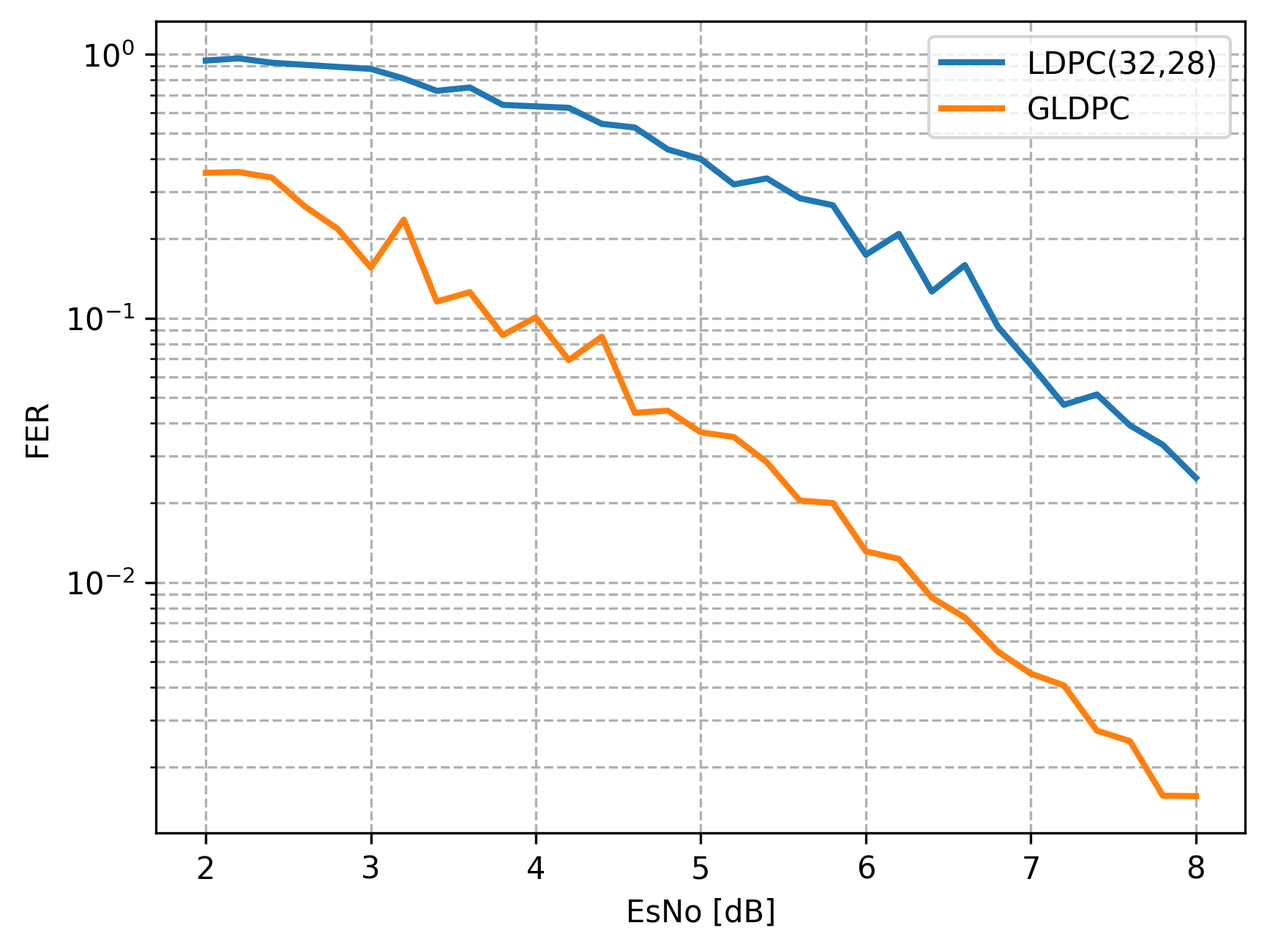
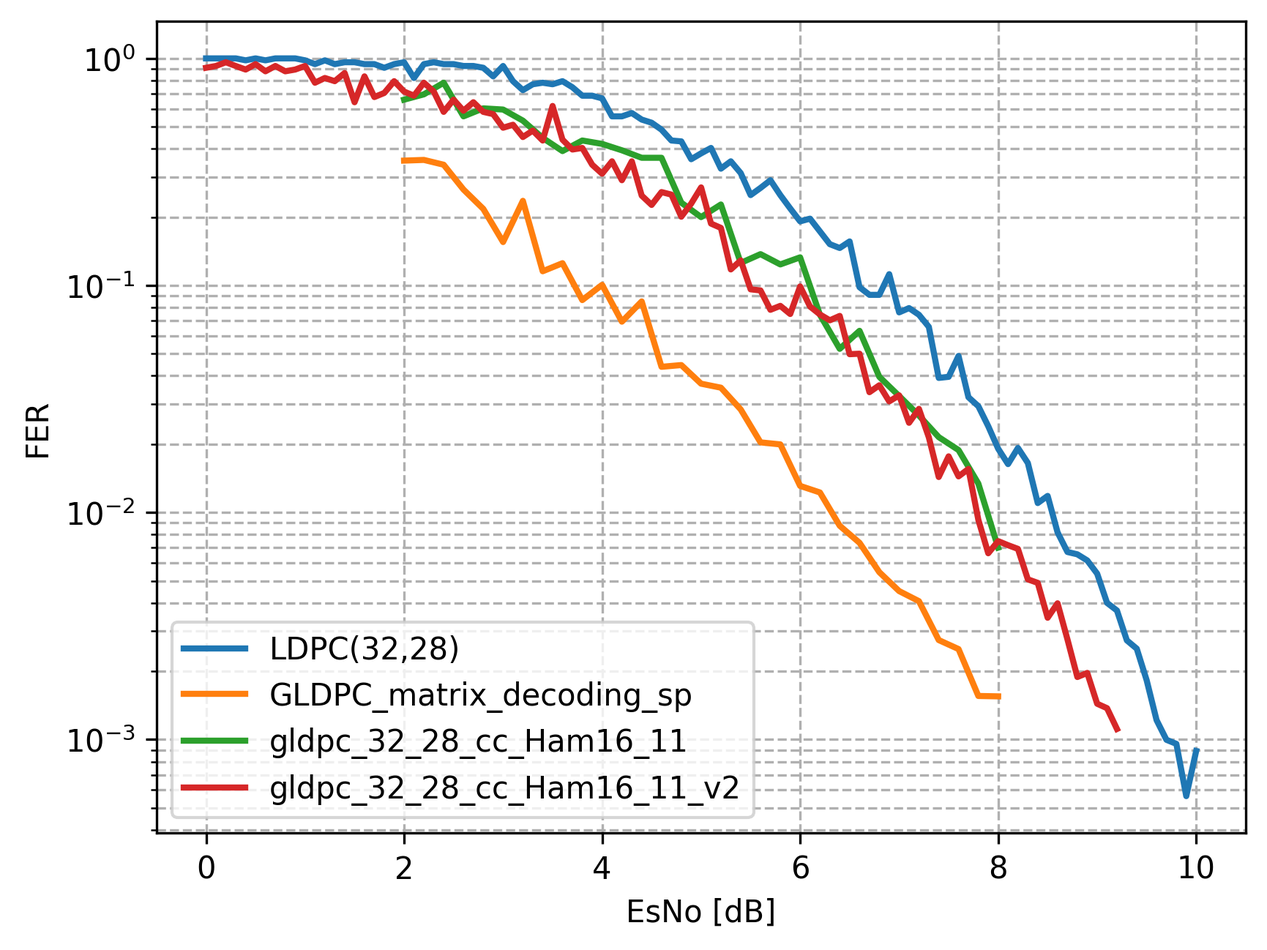
промоделирован пример из статьи

diff --git a/plot_hardcode.py b/plot_hardcode.py
@@ -2,17 +2,29 @@ from scipy.ndimage import gaussian_filter1d
 from matplotlib import pyplot as plt
 
 
-esno_ldpc_32_28 = [2, 2.2, 2.4, 2.6, 2.8, 3.0, 3.2, 3.4, 3.6, 3.8, 4.0, 4.2, 4.4, 4.6, 4.8, 5.0, 5.2, 5.4, 5.6, 5.8, 6.0, 6.2, 6.4, 6.6, 6.8, 7.0, 7.2, 7.4, 7.6, 7.8, 8.0]
-fer_ldpc_32_28 = [0.9433962264150944, 0.9615384615384616, 0.9259259259259259, 0.9090909090909091, 0.8928571428571429, 0.8771929824561403, 0.8064516129032258, 0.7246376811594203, 0.746268656716418, 0.6410256410256411, 0.6329113924050633, 0.625, 0.5434782608695652, 0.5263157894736842, 0.43478260869565216, 0.4, 0.32051282051282054, 0.33783783783783783, 0.2840909090909091, 0.26737967914438504, 0.1736111111111111, 0.20833333333333334, 0.12594458438287154, 0.15873015873015872, 0.09276437847866419, 0.06657789613848203, 0.046948356807511735, 0.051387461459403906, 0.03924646781789639, 0.033112582781456956, 0.02485089463220676]
-ber_ldpc_32_28 = [0.044221698113207544, 0.046875, 0.05497685185185185, 0.04772727272727273, 0.04743303571428571, 0.047149122807017545, 0.038306451612903226, 0.036684782608695655, 0.04757462686567164, 0.038461538461538464, 0.03560126582278481, 0.037109375, 0.030570652173913044, 0.03125, 0.028532608695652172, 0.0235, 0.021033653846153848, 0.02153716216216216, 0.018465909090909092, 0.01771390374331551, 0.010091145833333334, 0.013411458333333333, 0.007399244332493703, 0.010218253968253968, 0.006319573283858998, 0.004327563249001331, 0.003051643192488263, 0.0031153648509763617, 0.0024529042386185244, 0.0020281456953642383, 0.0015531809145129226]
-plt.plot(esno_ldpc_32_28, fer_ldpc_32_28, label="LDPC(32,28)", alpha=1, linewidth=2)
+esno_ldpc_32_28 = [0, 0.1, 0.2, 0.3, 0.4, 0.5, 0.6, 0.7, 0.8, 0.9, 1.0, 1.1, 1.2, 1.3, 1.4, 1.5, 1.6, 1.7, 1.8, 1.9, 2.0, 2.1, 2.2, 2.3, 2.4, 2.5, 2.6, 2.7, 2.8, 2.9, 3.0, 3.1, 3.2, 3.3, 3.4, 3.5, 3.6, 3.7, 3.8, 3.9, 4.0, 4.1, 4.2, 4.3, 4.4, 4.5, 4.6, 4.7, 4.8, 4.9, 5.0, 5.1, 5.2, 5.3, 5.4, 5.5, 5.6, 5.7, 5.8, 5.9, 6.0, 6.1, 6.2, 6.3, 6.4, 6.5, 6.6, 6.7, 6.8, 6.9, 7.0, 7.1, 7.2, 7.3, 7.4, 7.5, 7.6, 7.7, 7.8, 7.9, 8.0, 8.1, 8.2, 8.3, 8.4, 8.5, 8.6, 8.7, 8.8, 8.9, 9.0, 9.1, 9.2, 9.3, 9.4, 9.5, 9.6, 9.7, 9.8, 9.9, ] # 10.0
+fer_ldpc_32_28 = [1.0, 1.0, 1.0, 1.0, 0.9803921568627451, 1.0, 0.9803921568627451, 1.0, 1.0, 1.0, 0.9803921568627451, 0.9433962264150944, 0.9803921568627451, 0.9433962264150944, 0.9615384615384616, 0.9615384615384616, 0.9433962264150944, 0.9433962264150944, 0.9090909090909091, 0.9433962264150944, 0.9615384615384616, 0.819672131147541, 0.9433962264150944, 0.9615384615384616, 0.9433962264150944, 0.9433962264150944, 0.9259259259259259, 0.9259259259259259, 0.9090909090909091, 0.8333333333333334, 0.9259259259259259, 0.7936507936507936, 0.7246376811594203, 0.7692307692307693, 0.78125, 0.7692307692307693, 0.7936507936507936, 0.746268656716418, 0.684931506849315, 0.684931506849315, 0.6666666666666666, 0.5555555555555556, 0.5555555555555556, 0.5747126436781609, 0.5376344086021505, 0.5208333333333334, 0.4854368932038835, 0.43478260869565216, 0.43103448275862066, 0.3597122302158273, 0.3816793893129771, 0.4032258064516129, 0.32679738562091504, 0.352112676056338, 0.3125, 0.25, 0.26881720430107525, 0.29069767441860467, 0.25, 0.2183406113537118, 0.19157088122605365, 0.1968503937007874, 0.17301038062283736, 0.1519756838905775, 0.14619883040935672, 0.15625, 0.09823182711198428, 0.09090909090909091, 0.09090909090909091, 0.11210762331838565, 0.076103500761035, 0.0794912559618442, 0.07429420505200594, 0.0657030223390276, 0.03915426781519186, 0.0395882818685669, 0.04892367906066536, 0.03219575016097875, 0.029394473838918283, 0.02399232245681382, 0.019105846388995033, 0.016339869281045753, 0.01924557351809084, 0.016523463317911435, 0.01100594320933304, 0.011834319526627219, 0.008180628272251309, 0.006700616456714018, 0.006544502617801047, 0.006150818058801821, 0.0053803938448294415, 0.004, 0.0037017842600133265, 0.002734631371691096, 0.0025135732957973053, 0.0018253504672897196, 0.0012185908215739318, 0.0009976057462090981, 0.0009575242253629017, 0.000563551728413151, ] # 0.0008907575001781516
+ber_ldpc_32_28 = [0.054375, 0.044375, 0.04875, 0.05375, 0.04718137254901961, 0.043125, 0.05024509803921569, 0.0425, 0.04, 0.05875, 0.04779411764705882, 0.04716981132075472, 0.034926470588235295, 0.03773584905660377, 0.046274038461538464, 0.045072115384615384, 0.039504716981132074, 0.04540094339622641, 0.042045454545454546, 0.041273584905660375, 0.05228365384615385, 0.04456967213114754, 0.03714622641509434, 0.043870192307692304, 0.04540094339622641, 0.03891509433962264, 0.059027777777777776, 0.045717592592592594, 0.05568181818181818, 0.04739583333333333, 0.04224537037037037, 0.047619047619047616, 0.04483695652173913, 0.03365384615384615, 0.04931640625, 0.0375, 0.04662698412698413, 0.037779850746268655, 0.04280821917808219, 0.03595890410958904, 0.03916666666666667, 0.03229166666666667, 0.03125, 0.031609195402298854, 0.03528225806451613, 0.02734375, 0.02821601941747573, 0.028532608695652172, 0.02478448275862069, 0.022482014388489208, 0.024093511450381678, 0.028981854838709676, 0.018995098039215685, 0.02222711267605634, 0.019921875, 0.01625, 0.021001344086021504, 0.018168604651162792, 0.0175, 0.012827510917030568, 0.011015325670498084, 0.012549212598425197, 0.01189446366782007, 0.008548632218844984, 0.00941154970760234, 0.011328125, 0.006507858546168959, 0.005965909090909091, 0.0057954545454545455, 0.0075672645739910315, 0.004613774733637747, 0.005216613672496025, 0.004457652303120356, 0.004311760840998686, 0.0023981989036805013, 0.0025237529691211403, 0.0029048434442270057, 0.0019518673535093367, 0.0018738977072310405, 0.0015894913627639156, 0.001253821169277799, 0.0010518790849673202, 0.0011306774441878368, 0.0010017349636483807, 0.0006741140215716487, 0.0007544378698224853, 0.0004908376963350785, 0.00042297641383007235, 0.0003967604712041885, 0.00038058186738836264, 0.0003329118691488217, 0.0002325, 0.0002244206707633079, 0.00016407788230146577, 0.00016024029760707822, 0.00011636609228971963, 7.387706855791962e-05, 6.172685554668795e-05, 5.9845264085181356e-05, 3.416532353504728e-05, ] # 5.177527969785506e-05
+# plt.plot(esno_ldpc_32_28, fer_ldpc_32_28, label="LDPC(32,28)", alpha=1, linewidth=2)
+plt.plot(esno_ldpc_32_28, gaussian_filter1d(fer_ldpc_32_28, sigma=1).tolist(), label="LDPC(32,28)", alpha=1, linewidth=2)
+
+esno_gldpc_matrix_by_sp = [2, 2.2, 2.4, 2.6, 2.8, 3.0, 3.2, 3.4, 3.6, 3.8, 4.0, 4.2, 4.4, 4.6, 4.8, 5.0, 5.2, 5.4, 5.6, 5.8, 6.0, 6.2, 6.4, 6.6, 6.8, 7.0, 7.2, 7.4, 7.6, 7.8, 8.0]
+fer_gldpc_matrix_by_sp = [0.3546099290780142, 0.35714285714285715, 0.3401360544217687, 0.26455026455026454, 0.21739130434782608, 0.15527950310559005, 0.2358490566037736, 0.11547344110854503, 0.12531328320802004, 0.08620689655172414, 0.1006036217303823, 0.06925207756232687, 0.08503401360544217, 0.04382120946538125, 0.04460303300624442, 0.03692762186115214, 0.03546099290780142, 0.02844141069397042, 0.020366598778004074, 0.019952114924181964, 0.013099292638197537, 0.012254901960784314, 0.008742787200559538, 0.0073551044424830835, 0.005460303592879764, 0.00450815976918222, 0.00406934158053227, 0.002743183189773413, 0.0025040064102564105, 0.0015561295944726277, 0.0015502433882119493]
+ber_gldpc_matrix_by_sp = [0.011081560283687944, 0.013169642857142857, 0.012542517006802721, 0.008763227513227513, 0.007201086956521739, 0.005725931677018634, 0.008254716981132075, 0.0040415704387990765, 0.004151002506265664, 0.003556034482758621, 0.003709758551307847, 0.0024238227146814403, 0.002816751700680272, 0.0015337423312883436, 0.0018119982158786797, 0.0016386632200886262, 0.0017065602836879433, 0.0011554323094425483, 0.0008655804480651731, 0.0008853750997605746, 0.0004584752423369138, 0.0004978553921568627, 0.0003059975520195838, 0.00027121947631656367, 0.00021158676422409085, 0.00019159679019024433, 0.00016531700170912346, 0.00011658528556537005, 0.00012050530849358975, 6.613550776508668e-05, 6.007193129321303e-05]
+# plt.plot(esno_gldpc_matrix_by_sp, fer_gldpc_matrix_by_sp, label="GLDPC_matrix_decoding_sp", alpha=1, linewidth=2)
 # plt.plot(esno_ldpc_32_28, gaussian_filter1d(fer_ldpc_32_28, sigma=1).tolist(), label="LDPC(32,28)", alpha=1, linewidth=2)
 
-esno_gldpc = [2, 2.2, 2.4, 2.6, 2.8, 3.0, 3.2, 3.4, 3.6, 3.8, 4.0, 4.2, 4.4, 4.6, 4.8, 5.0, 5.2, 5.4, 5.6, 5.8, 6.0, 6.2, 6.4, 6.6, 6.8, 7.0, 7.2, 7.4, 7.6, 7.8, 8.0]
-fer_gldpc = [0.3546099290780142, 0.35714285714285715, 0.3401360544217687, 0.26455026455026454, 0.21739130434782608, 0.15527950310559005, 0.2358490566037736, 0.11547344110854503, 0.12531328320802004, 0.08620689655172414, 0.1006036217303823, 0.06925207756232687, 0.08503401360544217, 0.04382120946538125, 0.04460303300624442, 0.03692762186115214, 0.03546099290780142, 0.02844141069397042, 0.020366598778004074, 0.019952114924181964, 0.013099292638197537, 0.012254901960784314, 0.008742787200559538, 0.0073551044424830835, 0.005460303592879764, 0.00450815976918222, 0.00406934158053227, 0.002743183189773413, 0.0025040064102564105, 0.0015561295944726277, 0.0015502433882119493]
-ber_gldpc = [0.011081560283687944, 0.013169642857142857, 0.012542517006802721, 0.008763227513227513, 0.007201086956521739, 0.005725931677018634, 0.008254716981132075, 0.0040415704387990765, 0.004151002506265664, 0.003556034482758621, 0.003709758551307847, 0.0024238227146814403, 0.002816751700680272, 0.0015337423312883436, 0.0018119982158786797, 0.0016386632200886262, 0.0017065602836879433, 0.0011554323094425483, 0.0008655804480651731, 0.0008853750997605746, 0.0004584752423369138, 0.0004978553921568627, 0.0003059975520195838, 0.00027121947631656367, 0.00021158676422409085, 0.00019159679019024433, 0.00016531700170912346, 0.00011658528556537005, 0.00012050530849358975, 6.613550776508668e-05, 6.007193129321303e-05]
-plt.plot(esno_gldpc, fer_gldpc, label="GLDPC", alpha=1, linewidth=2)
-# plt.plot(esno_ldpc_32_28, gaussian_filter1d(fer_ldpc_32_28, sigma=1).tolist(), label="LDPC(32,28)", alpha=1, linewidth=2)
+esno_gldpc_32_28_cc_Ham16_11 = [2, 2.2, 2.4, 2.6, 2.8, 3.0, 3.2, 3.4, 3.6, 3.8, 4.0, 4.2, 4.4, 4.6, 4.8, 5.0, 5.2, 5.4, 5.6, 5.8, 6.0, 6.2, 6.4, 6.6, 6.8, 7.0, 7.2, 7.4, 7.6, 7.8, 8.0]
+fer_gldpc_32_28_cc_Ham16_11 = [0.6578947368421053, 0.6944444444444444, 0.78125, 0.5555555555555556, 0.6024096385542169, 0.5952380952380952, 0.5319148936170213, 0.44642857142857145, 0.390625, 0.43478260869565216, 0.42016806722689076, 0.3937007874015748, 0.36496350364963503, 0.36496350364963503, 0.23148148148148148, 0.2, 0.22727272727272727, 0.12562814070351758, 0.13736263736263737, 0.12376237623762376, 0.13297872340425532, 0.07429420505200594, 0.052576235541535225, 0.06313131313131314, 0.0395882818685669, 0.03259452411994785, 0.02675227394328518, 0.02147766323024055, 0.018839487565938208, 0.013412017167381975, 0.0070028011204481795]
+ber_gldpc_32_28_cc_Ham16_11 = [0.0884046052631579, 0.09505208333333333, 0.1171875, 0.07256944444444445, 0.0677710843373494, 0.07961309523809523, 0.07712765957446809, 0.05552455357142857, 0.049072265625, 0.05326086956521739, 0.048581932773109245, 0.05093503937007874, 0.04698905109489051, 0.045848540145985404, 0.028645833333333332, 0.022, 0.02784090909090909, 0.014761306532663316, 0.015625, 0.014619430693069308, 0.014876994680851064, 0.007661589895988113, 0.005224763406940063, 0.006352588383838384, 0.004280482977038797, 0.0031779661016949155, 0.002959470304975923, 0.0022014604810996563, 0.0021547663903541824, 0.0016597371244635192, 0.0007265406162464986]
+# plt.plot(esno_gldpc_32_28_cc_Ham16_11, fer_gldpc_32_28_cc_Ham16_11, label="gldpc_32_28_cc_Ham16_11", alpha=1, linewidth=2)
+# plt.plot(esno_gldpc_32_28_cc_Ham16_11, gaussian_filter1d(fer_gldpc_32_28_cc_Ham16_11, sigma=1).tolist(), label="LDPC(32,28)", alpha=1, linewidth=2)
+
+esno_gldpc_32_28_cc_Ham16_11_v2 = [0.0, 0.1, 0.2, 0.3, 0.4, 0.5, 0.6, 0.7, 0.8, 0.9, 1.0, 1.1, 1.2, 1.3, 1.4, 1.5, 1.6, 1.7, 1.8, 1.9, 2.0, 2.1, 2.2, 2.3, 2.4, 2.5, 2.6, 2.7, 2.8, 2.9, 3.0, 3.1, 3.2, 3.3, 3.4, 3.5, 3.6, 3.7, 3.8, 3.9, 4.0, 4.1, 4.2, 4.3, 4.4, 4.5, 4.6, 4.7, 4.8, 4.9, 5.0, 5.1, 5.2, 5.3, 5.4, 5.5, 5.6, 5.7, 5.8, 5.9, 6.0, 6.1, 6.2, 6.3, 6.4, 6.5, 6.6, 6.7, 6.8, 6.9, 7.0, 7.1, 7.2, 7.3, 7.4, 7.5, 7.6, 7.7, 7.8, 7.9, 8.0, 8.1, 8.2, 8.3, 8.4, 8.5, 8.6, 8.7, 8.8, 8.9, 9.0, 9.1, 9.2]
+fer_gldpc_32_28_cc_Ham16_11_v2 = [0.9090909090909091, 0.9259259259259259, 0.9615384615384616, 0.9259259259259259, 0.8928571428571429, 0.9433962264150944, 0.8771929824561403, 0.9259259259259259, 0.8771929824561403, 0.8928571428571429, 0.9259259259259259, 0.78125, 0.819672131147541, 0.7936507936507936, 0.8620689655172413, 0.6410256410256411, 0.8333333333333334, 0.6756756756756757, 0.704225352112676, 0.7936507936507936, 0.7142857142857143, 0.684931506849315, 0.78125, 0.7142857142857143, 0.5813953488372093, 0.6578947368421053, 0.5882352941176471, 0.6410256410256411, 0.5813953488372093, 0.5681818181818182, 0.49504950495049505, 0.5102040816326531, 0.45045045045045046, 0.4807692307692308, 0.43478260869565216, 0.6172839506172839, 0.43859649122807015, 0.3968253968253968, 0.4032258064516129, 0.3401360544217687, 0.3105590062111801, 0.352112676056338, 0.29069767441860467, 0.352112676056338, 0.24875621890547264, 0.22624434389140272, 0.25773195876288657, 0.25125628140703515, 0.20080321285140562, 0.22935779816513763, 0.2702702702702703, 0.18726591760299627, 0.17921146953405018, 0.11764705882352941, 0.12886597938144329, 0.09615384615384616, 0.09505703422053231, 0.078125, 0.08130081300813008, 0.0748502994011976, 0.09900990099009901, 0.08077544426494346, 0.07451564828614009, 0.0702247191011236, 0.07342143906020558, 0.049800796812749, 0.05005005005005005, 0.03387533875338753, 0.036337209302325583, 0.030864197530864196, 0.03280839895013123, 0.024838549428713365, 0.028604118993135013, 0.021431633090441493, 0.014334862385321102, 0.017674089784376106, 0.014425851125216388, 0.015552099533437015, 0.009288500835965075, 0.006615506747816882, 0.0074827895839568994, 0.007178750897343862, 0.006915629322268326, 0.0050776886361328325, 0.004899559039686428, 0.003439499208915182, 0.003983111606787222, 0.002762278327164245, 0.0018859384429692214, 0.001965872454195172, 0.001438517751309051, 0.001374608236652554, 0.0011133625776570397]
+ber_gldpc_32_28_cc_Ham16_11_v2 = [0.09375, 0.0798611111111111, 0.0673076923076923, 0.05787037037037037, 0.07087053571428571, 0.06308962264150944, 0.08607456140350878, 0.07465277777777778, 0.06414473684210527, 0.05970982142857143, 0.08275462962962964, 0.064453125, 0.06147540983606557, 0.05555555555555555, 0.06303879310344827, 0.06009615384615385, 0.06979166666666667, 0.05320945945945946, 0.05501760563380282, 0.06101190476190476, 0.054464285714285715, 0.06720890410958905, 0.06103515625, 0.04285714285714286, 0.057412790697674417, 0.06949013157894737, 0.054044117647058826, 0.057291666666666664, 0.051962209302325583, 0.052201704545454544, 0.04733910891089109, 0.045599489795918366, 0.05152027027027027, 0.04326923076923077, 0.04782608695652174, 0.05941358024691358, 0.03892543859649123, 0.03521825396825397, 0.03881048387096774, 0.03741496598639456, 0.0343555900621118, 0.034991197183098594, 0.02525436046511628, 0.029049295774647887, 0.026274875621890546, 0.02531108597285068, 0.02851159793814433, 0.025282663316582913, 0.021460843373493976, 0.02236238532110092, 0.03125, 0.01977996254681648, 0.01881720430107527, 0.011764705882352941, 0.01401417525773196, 0.010516826923076924, 0.009565114068441065, 0.008935546875, 0.008079268292682927, 0.008514221556886227, 0.010581683168316832, 0.008531906300484653, 0.008988450074515649, 0.00741748595505618, 0.007755139500734215, 0.005011205179282868, 0.005286536536536536, 0.003662771002710027, 0.004269622093023256, 0.0033179012345679014, 0.0032193241469816274, 0.002856433184302037, 0.003092820366132723, 0.00237087441063009, 0.0014782826834862386, 0.001690084835630965, 0.00148766589728794, 0.0013705287713841369, 0.000981097900798811, 0.0007731873511510982, 0.0006547440885962286, 0.0006864680545585068, 0.0007002074688796681, 0.0005363308621915304, 0.0004991425771680548, 0.0003052555547912224, 0.0004978889508484028, 0.0002555107452626927, 0.00018977255582377793, 0.00021993198081308484, 0.0001483471431037459, 0.00014003821410897894, 0.00011759892226502483]
+# plt.plot(esno_gldpc_32_28_cc_Ham16_11_v2, fer_gldpc_32_28_cc_Ham16_11_v2, label="GLDPC_32_28_from_Ham16_11", alpha=1, linewidth=2)
+plt.plot(esno_gldpc_32_28_cc_Ham16_11_v2, gaussian_filter1d(fer_gldpc_32_28_cc_Ham16_11_v2, sigma=1).tolist(), label="GLDPC_32_28_from_Ham16_11", alpha=1, linewidth=2)
 
 plt.yscale("log")  # Логарифмическая шкала по Y
 plt.xlabel("EsNo [dB]")
@@ -20,4 +32,4 @@ plt.ylabel("FER")
 # plt.title("LDPC(32,28)")
 plt.legend()
 plt.grid(True, which="both", linestyle="--")
-plt.savefig('modeling_results/LDPC(32,28)_real.png', dpi=300, bbox_inches='tight')
+plt.savefig('modeling_results/GLDPC(32,28)_LDPC_real.png', dpi=300, bbox_inches='tight')

diff --git a/test.py b/test.py
@@ -1,34 +1,47 @@
-import numpy as np
+# import numpy as np
 
-# Проверочная матрица
-H = np.array([
-    [1, 1, 1, 1, 1, 1, 1, 1, 1, 1, 1, 1, 1, 1, 1, 1, 0, 0, 0, 0, 0, 0, 0, 0, 0, 0, 0, 0, 0, 0, 0, 0],
-    [0, 0, 0, 0, 0, 0, 0, 0, 0, 0, 0, 0, 0, 0, 0, 0, 1, 1, 1, 1, 1, 1, 1, 1, 1, 1, 1, 1, 1, 1, 1, 1],
-    [1, 0, 0, 1, 0, 1, 1, 0, 0, 1, 0, 1, 0, 0, 1, 1, 0, 1, 0, 0, 1, 0, 1, 0, 1, 0, 1, 0, 1, 0, 1, 1],
-    [0, 1, 1, 0, 1, 0, 0, 1, 1, 0, 1, 0, 1, 1, 0, 0, 1, 0, 1, 1, 0, 1, 0, 1, 0, 1, 0, 1, 0, 1, 0, 0]
-])
+# # Проверочная матрица
+# H = np.array([
+#     [1, 1, 1, 1, 1, 1, 1, 1, 1, 1, 1, 1, 1, 1, 1, 1, 0, 0, 0, 0, 0, 0, 0, 0, 0, 0, 0, 0, 0, 0, 0, 0],
+#     [0, 0, 0, 0, 0, 0, 0, 0, 0, 0, 0, 0, 0, 0, 0, 0, 1, 1, 1, 1, 1, 1, 1, 1, 1, 1, 1, 1, 1, 1, 1, 1],
+#     [1, 0, 0, 1, 0, 1, 1, 0, 0, 1, 0, 1, 0, 0, 1, 1, 0, 1, 0, 0, 1, 0, 1, 0, 1, 0, 1, 0, 1, 0, 1, 1],
+#     [0, 1, 1, 0, 1, 0, 0, 1, 1, 0, 1, 0, 1, 1, 0, 0, 1, 0, 1, 1, 0, 1, 0, 1, 0, 1, 0, 1, 0, 1, 0, 0]
+# ])
 
-# Используем numpy для поиска решения уравнения H * x = 0
-from sympy import Matrix
-H_sympy = Matrix(H)
-solution = H_sympy.nullspace()
+# # Используем numpy для поиска решения уравнения H * x = 0
+# from sympy import Matrix
+# H_sympy = Matrix(H)
+# solution = H_sympy.nullspace()
 
-# Получаем решение
-codeword = np.array(solution[0]).flatten()  # Берем первое ненулевое решение
+# # Получаем решение
+# codeword = np.array(solution[0]).flatten()  # Берем первое ненулевое решение
 
-# Проверим, что оно действительно кодовое (H * x = 0)
-# print("Ненулевое кодовое слово:", codeword)
-# check = np.dot(H, codeword) % 2  # Проверим, что H * x = 0 по модулю 2
-# print("Проверка, что оно кодовое (H * x % 2 = 0):", check)
+# # Проверим, что оно действительно кодовое (H * x = 0)
+# # print("Ненулевое кодовое слово:", codeword)
+# # check = np.dot(H, codeword) % 2  # Проверим, что H * x = 0 по модулю 2
+# # print("Проверка, что оно кодовое (H * x % 2 = 0):", check)
+# # codeword=[0, 1, 1, 0, 1, 0, 0, 1, 0, 0, 0, 0, 0, 0, 0, 0, 1, 1, 1, 1, 1, 1, 1, 1, 1, 1, 1, 1, 1, 1, 1, 1]
+
 # codeword=[0, 1, 1, 0, 1, 0, 0, 1, 0, 0, 0, 0, 0, 0, 0, 0, 1, 1, 1, 1, 1, 1, 1, 1, 1, 1, 1, 1, 1, 1, 1, 1]
 
-codeword=[0, 1, 1, 0, 1, 0, 0, 1, 0, 0, 0, 0, 0, 0, 0, 0, 1, 1, 1, 1, 1, 1, 1, 1, 1, 1, 1, 1, 1, 1, 1, 1]
 
+# # codeword=[0, 0, 0, 0, 0, 0, 0, 0, 0, 0, 0, 0, 0, 0, 0, 0, 0, 0, 0, 0, 0, 0, 0, 0, 0, 0, 0, 0, 0, 0, 0, 0]
 
-# codeword=[0, 0, 0, 0, 0, 0, 0, 0, 0, 0, 0, 0, 0, 0, 0, 0, 0, 0, 0, 0, 0, 0, 0, 0, 0, 0, 0, 0, 0, 0, 0, 0]
+# if np.sum(np.matmul(codeword, (H.T)) % 2) == 0:
+#     print("Ненулевое кодовое слово:", codeword)
+# else:
+#     print("Кодовое слово хуйня")
+from BCJR import BCJRDecoder 
+from trellis_repo import get_trellis
 
-if np.sum(np.matmul(codeword, (H.T)) % 2) == 0:
-    print("Ненулевое кодовое слово:", codeword)
-else:
-    print("Кодовое слово хуйня")
+trellis1 = get_trellis('/home/i17m5/GLDPC/trellis_binaries/H_ham(16,11)')
 
+llr_in=[ 14.45278123,  16.21054051 ,  8.81886308  , 2.50358483 , 90.50822594,
+  15.78551759  , 9.61576327 ,-10.78005435  , 8.21385364,  10.07751358,
+ -14.92368358 ,-10.67865927, -60.92993565 , 10.86770752,  10.95095283,
+   9.97334605]
+sigma2 =0.15848931924611134
+
+decoder = BCJRDecoder(trellis1.edg)
+
+print(decoder.decode(llr_in,sigma2))

diff --git a/simulate_awgn_sum_product.py b/simulate_awgn_sum_product.py
@@ -1,34 +1,25 @@
 import numpy as np
-# from belief_propagation import BP
+from belief_propagation import BP
 from bpsk import bpsk_modulation, bpsk_demodulation
 from awgn import awgn_llr
 import matplotlib.pyplot as plt
 from scipy.ndimage import gaussian_filter1d
 from trellis_repo import get_trellis
 from BCJR import BCJRDecoder
-from GLDPC import GLDPC
 
 from utils import read_csv
-
-h_ldpc = read_csv('/home/i17m5/GLDPC/matricies/H_LDPC(32,28).csv')
-h_comp = read_csv('/home/i17m5/GLDPC/matricies/H_ham(16,11).csv')
-
-h_gldpc = read_csv('/home/i17m5/GLDPC/matricies/H_GLDPC.csv')
 
 ESNO_START = 0
 ESNO_END = 10
 ESNO_STEP = 0.1
 WRONG_DECODING_NUMBER = 50
-N =h_ldpc.shape[1]
+H = read_csv('/home/i17m5/GLDPC/matricies/H_LDPC(32,28).csv')
+N = H.shape[1]
 
 
-TITLE = f'Decoding GLDPC, WRONG_DECODING_NUMBER = {WRONG_DECODING_NUMBER}, ESNO_END = {ESNO_END}'
+TITLE = f'Decoding LDPC by SP, WRONG_DECODING_NUMBER = {WRONG_DECODING_NUMBER}, ESNO_END = {ESNO_END}'
 print('\n',TITLE,'\n')
 
-# Создаем декодер кода компонента
-# Подгуржаем решетку
-trellis1 = get_trellis('/home/i17m5/GLDPC/trellis_binaries/H_ham(16,11)')
-code_component_decoder = BCJRDecoder(trellis1.edg)
 
 # Задаем кодовое слово
 # codeword_initial = np.array([0] * N, dtype=int)
@@ -46,13 +37,6 @@ while round(value, 2) <= ESNO_END:
 # Создаем fer & ber
 fer = [0] * len(esno_array)
 ber = [0] * len(esno_array)
-
-decoder = GLDPC(
-    H_LDPC=h_ldpc,
-    H_comp=h_comp,
-    # H_GLDPC=h_gldpc,
-    CC_DECODER=code_component_decoder
-)
 
 # # Запускаем моделирование
 for (i, esno) in enumerate(esno_array):
@@ -72,7 +56,7 @@ for (i, esno) in enumerate(esno_array):
 
         # Декодированное кодовое слово в бинарном виде
         # codeword_result = bpsk_demodulation(llr_out)
-        codeword_result = decoder.decode(llr_in, sigma2, 20)
+        codeword_result = BP(llr_in, H, 20).decode()
 
 
         # считаем кол-во ошибок
@@ -109,4 +93,4 @@ plt.ylabel("FER")
 plt.legend()
 plt.grid(True, which="both", linestyle="--")
 # plt.show()
-plt.savefig(f'/home/i17m5/GLDPC/modeling_results/GLDPC_Ham(16,11)_from_{ESNO_START}_to_{ESNO_END}_2.png', dpi=300, bbox_inches='tight')
+plt.savefig(f'/home/i17m5/GLDPC/modeling_results/LDPC_by_SP_from_{ESNO_START}_to_{ESNO_END}.png', dpi=300, bbox_inches='tight')

diff --git a/simulate_awgn_once2.py b/simulate_awgn_once2.py
@@ -36,15 +36,16 @@ llr_in, sigma2 = awgn_llr(codeword_modulated, snr)
 print(f'SNR: {snr}. sigma2: {sigma2}')
 
 # для запуска с конкретными LLR:
-# llr_in = np.array([1.167170061968962, 1.6307143915761806, 2.5221245918395483,
-#  3.5512401343390816, 6.23346983681409, -0.2284348629800595, 9.211168143504485,
-#  0.31372871093553156, 6.007215069757603, 4.371153764272916,
-#  6.8730171124356705, 2.7507267411267975, 8.390081179083431, 8.288130867976705,
-#  5.856615789228111, 3.5640912311478057, 8.698797228217416, 8.869940523584562,
-#  8.994751678603668 ,3.7178026910527646, 0.8139102034041645 ,6.862437243759427,
-#  6.639418524370494, 5.019212929129337, 5.32780289907566 ,4.471140634345783,
-#  7.683999248209993 ,5.537175185761929,6.698118491718326 ,-1.8147796132177345,
-#  5.984500468336725 ,4.124931127917616])
+# llr_in = np.array([10.950952833565214 ,-10.678659273586316, -14.923683579591696,
+#  14.452781232678571, -60.929935648832439 ,15.785517592718364,
+#  9.615763268529186 ,-10.78005435292438,9.973346054136995 ,10.077513584546661,
+#  8.213853639269018 ,16.21054050626045 ,10.867707520852655, 8.818863076771962,
+#  2.5035848316290643 ,90.508225936535146,-11.197007059868271,
+#  -14.92977092850371,-80.062282590486147 ,-13.23020354271099,
+#  -14.531534922392634, -30.7859844582165256 ,-11.178678651524343,
+#  -90.000984281999317,-60.646455387234506 ,-19.75275855549868,
+#  -30.9992385268927255, -10.693459778814443 ,-11.523370784481257,
+#  -90.649947835205834 ,-80.569103370018432 ,-14.942585974981771])
 #------------------------------------------------------------------------------------------------------------------------
 
 # считаем кол-во ошибок на входе
@@ -67,7 +68,7 @@ print(f'Входные LLR: {llr_in}\n\n')
 decoder = GLDPC(
     H_LDPC=h_ldpc,
     H_comp=h_comp,
-    H_GLDPC=h_gldpc,
+    # H_GLDPC=h_gldpc,
     CC_DECODER=code_component_decoder
 )
 decoded_word = decoder.decode(llr_in, sigma2, 20)

diff --git a/simulate_awgn_once2_copy.py b/simulate_awgn_once2_copy.py
@@ -32,17 +32,16 @@ llr_in, sigma2 = awgn_llr(codeword_modulated, snr)
 print(f'SNR: {snr}. sigma2: {sigma2}')
 
 # для запуска с конкретными LLR:
-llr_in = np.array([12.884417162496169, -6.2033050457924395, -12.183548957787767,
- 7.8392340500384465 ,-10.650885811311488, 10.180569466278087,
- 11.73814628025913, -11.817917656487129, 7.028586948498691,
- 11.952957903111392, 11.873484671982933, 2.737753098741238, 9.61758922509449,
- 14.090998718911944 ,23.354159942767485 ,14.275775520660074,
- -18.429484806889352, -7.088357057410139 ,-16.08896482847936,
- -12.600270894895896 ,-14.882760325044694 ,-12.76080581058045,
- -13.547490045825905, -16.687968787413006 ,-13.194949048688752,
- -17.73545506098281 ,-13.996146928925599, -5.5742812251923475,
- -6.319479845214131 ,-18.828977347297567 ,-13.29129652463194,
- -8.69579021027348])
+llr_in = np.array([10.950952833565214 ,-10.678659273586316, -14.923683579591696,
+ 14.452781232678571, -60.929935648832439 ,15.785517592718364,
+ 9.615763268529186 ,-10.78005435292438,9.973346054136995 ,10.077513584546661,
+ 8.213853639269018 ,16.21054050626045 ,10.867707520852655, 8.818863076771962,
+ 2.5035848316290643 ,90.508225936535146,-11.197007059868271,
+ -14.92977092850371,-80.062282590486147 ,-13.23020354271099,
+ -14.531534922392634, -30.7859844582165256 ,-11.178678651524343,
+ -90.000984281999317,-60.646455387234506 ,-19.75275855549868,
+ -30.9992385268927255, -10.693459778814443 ,-11.523370784481257,
+ -90.649947835205834 ,-80.569103370018432 ,-14.942585974981771])
 #------------------------------------------------------------------------------------------------------------------------
 
 # считаем кол-во ошибок на входе

diff --git a/belief_propagation.py b/belief_propagation.py
@@ -61,8 +61,8 @@ class BP:
         # print('\n',x_hat)
         if np.sum(np.matmul(x_hat, (self.H.T)) % 2) == 0:
           x = x_hat
-          print("\nОшибки исправлены, кол-во итераций", iter+1)
+          # print("\nОшибки исправлены, кол-во итераций", iter+1)
           # print('\nout_L', out_L)
           return x
-      print("\nКодовое слово не найдено, кол-во итераций", iter+1)
-      print('\nout_L', out_L)
+      # print("\nКодовое слово не найдено, кол-во итераций", iter+1)
+      # print('\nout_L', out_L)

diff --git a/GLDPC_copy.py b/GLDPC_copy.py
@@ -185,7 +185,7 @@ class GLDPC:
                 for j in range(n_ldpc):
                     if self.H_LDPC[i,j] == 1:
                         indexes = np.setdiff1d(np.nonzero(self.H_LDPC[:,j]), i)
-                        H_q[i,j] = L[j] + np.sum(H_gamma[indexes,j])
+                        H_q[i,j] = L[j] + 0.1*np.sum(H_gamma[indexes,j])
             # print('H_q')
             # print_matrix(H_q)
 

diff --git a/create_gldpc_matrix.py b/create_gldpc_matrix.py
@@ -66,4 +66,4 @@ H_gldpc = create_gldpc_matrix(h_ldpc, h_component)
 print('\n\n\nМатрица H_GLPDC:')
 print_matrix(H_gldpc)
 
-# save_to_csv(H_gldpc, '/home/i17m5/GLDPC/matricies/H_gldpc.csv')
+save_to_csv(H_gldpc, '/home/i17m5/GLDPC/matricies/H_gldpc.csv')
